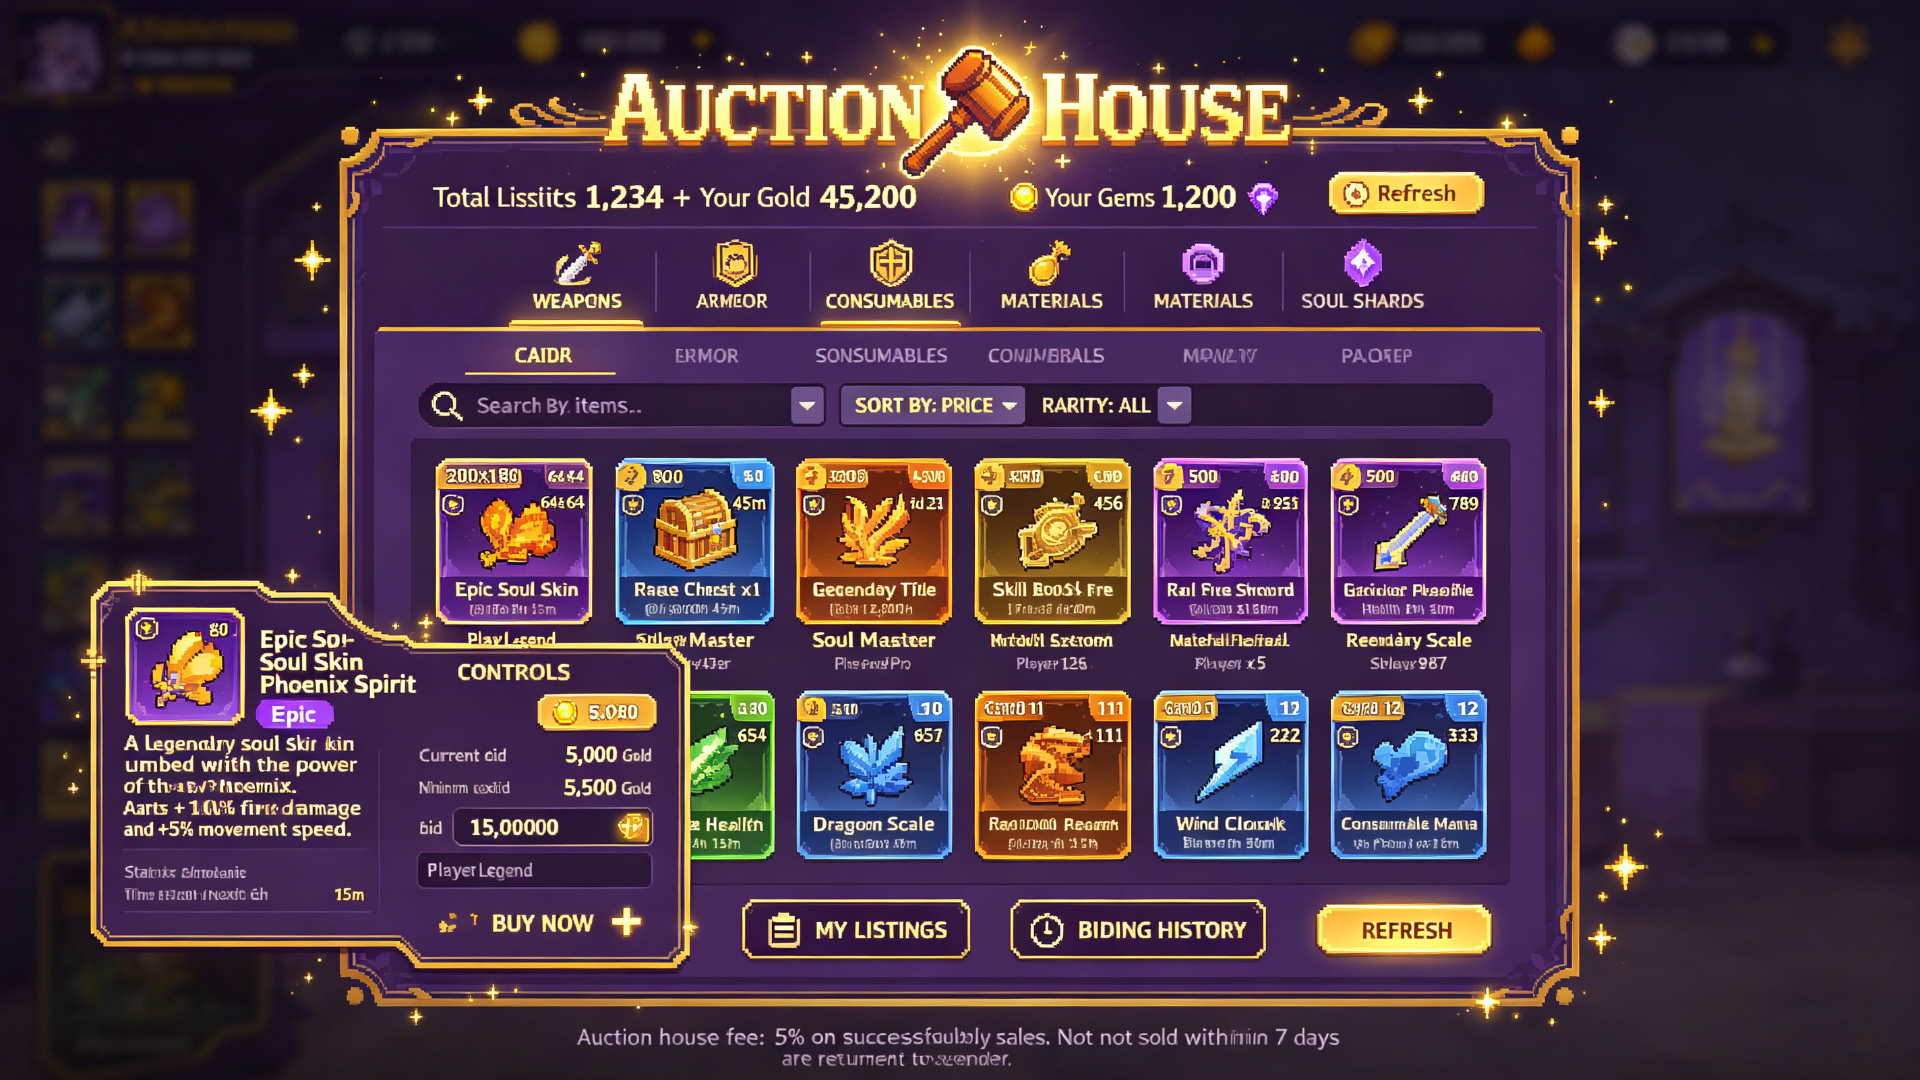
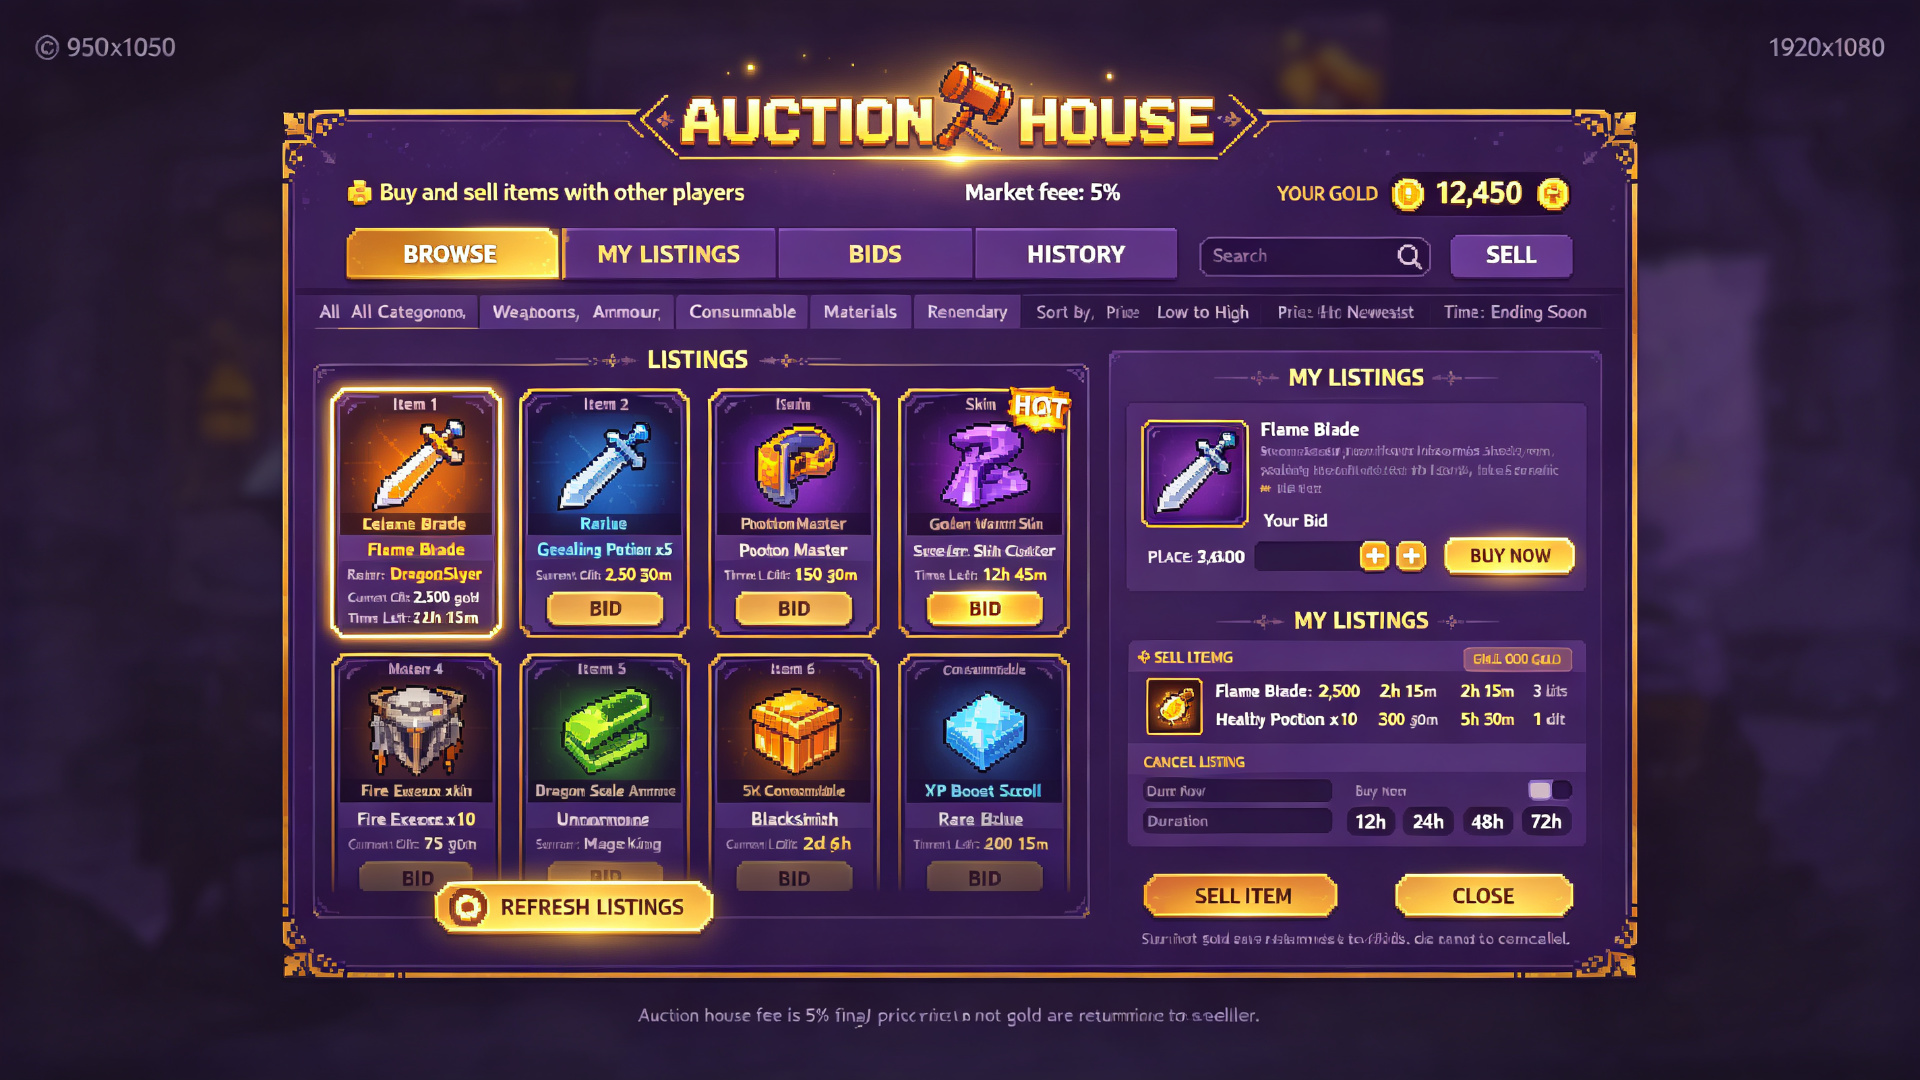
feat(art): 设计任务第148轮M2社交弹窗UI组件产出P0 - 6项M2社交弹窗UI组件全部完成（游戏内排行榜弹窗+游戏内邮件弹窗+游戏内好友弹窗+游戏内公会弹窗+游戏内拍卖行弹窗+游戏内交易弹窗），🎉新元素系统已达100元素正式停止新元素扩展！Steam商店页素材累计12项+过场动画CG 6项+M2战斗HUD UI组件6项+M2其他界面UI组件6项+M2主要界面细化UI 6项+M2战斗特效UI组件6项+M2社交UI组件6项+M2辅助界面UI组件6项+M2游戏系统UI组件6项+M2对战模式UI组件6项+M2运营系统UI组件6项+M2社交交互UI组件6项+M2设置系统UI组件6项+M2

diff --git a/docs/game-design/DESIGN_DEVLOG.md b/docs/game-design/DESIGN_DEVLOG.md
@@ -12915,3 +12915,88 @@
 9. 战策攻击系统完整修复链4个bug叠加全部完成+BUG-030已关闭+BUG-033已修复后，关注战策更多用户体验优化
 10. 🎉 GitHub网络正常，继续正常push
 11. 注意image_gen工具限制：一次只能生成1张图片，避免使用"rainbow/color"等可能触发审核的关键词
+
+---
+
+## 第148轮设计任务（2026-09-10）— M2社交弹窗UI组件产出P0 — 6项M2社交弹窗UI组件全部完成！M2 UI组件合计138项！概念图666张！音效837个！🎉新元素系统已达100元素正式停止新元素扩展！战策攻击系统完整修复链4个bug叠加全部完成！BUG-030已关闭！BUG-033已修复！⚠ GitHub 443端口连接超时，push失败，commit保留本地，网络恢复时推送！
+
+### 一、🎉 重要里程碑：新元素系统已达100元素，正式停止新元素扩展！
+
+| 项目 | 详情 |
+|------|------|
+| **当前进度** | **100个元素**（第122轮完成）✅ 达到目标！ |
+| **用户指令** | 2026-09-09用户指令：元素系统扩展到100个元素后立即停止，不再无限扩展！ |
+| **停止新元素产出** | ✅ 停止新元素的灵魂单位/地图/音效产出 |
+| **本轮起转向**（按优先级） | 1. **Steam商店页素材**（P1）← 第123-124轮已产出12项<br>2. **M2实际需要的UI资源**（P0）← **第126-148轮已产出138项M2 UI组件**<br>3. **过场动画/启动画面/CG**（P1）← 第125轮已产出6项<br>4. **现有资源优化**（P2） |
+
+### 二、战策DEVLOG最新进展（7907行，+9行）— 攻击系统完整修复链4个bug叠加全部完成！
+
+| 项目 | 状态 |
+|------|------|
+| **P0修复续：AI决策延迟导致单位在攻击范围内不攻击** | ✅ **已完成！** |
+| **攻击系统完整修复链（4个bug叠加）全部完成** | ✅ |
+| **修复后验证** | 5秒内战斗结束，双方持续攻击直到一方被击败！M2测试: 2884 Passed, 0 Failed |
+| **BUG-030已关闭** | ✅ 526个wav RIFF头和data chunk size全部修正，Godot导入0错误528步骤全通过 |
+| **BUG-033已修复** | ✅ 灵魂选择UI布局拥挤+main_menu假灵魂数据bug，已关闭31个，活跃2个 |
+| **战策待办** | UI皮肤图集替换纯色StyleBox（ui_skin_sheet.png）、自定义像素字体（无.ttf/.otf文件，需设计产出） |
+| **历史[设计需求]已基本满足** | ✅ 唯一未完成的是实际像素字体文件（.ttf/.otf），待战策决定 |
+| 无新[设计需求] | ✅ |
+
+### 三、🎉 M2社交弹窗UI组件产出（6项，P0）— M2 UI组件合计138项！
+
+| 序号 | 素材 | 尺寸 | 文件名 | 大小 | 内容 |
+|------|------|------|--------|------|------|
+| 1 | **游戏内排行榜弹窗UI** | 1920x1080 | leaderboard_popup_ui.png | 799KB | 排行榜界面（赛季信息+4个标签GLOBAL/FRIENDS/GUILD/WEEKLY+前3名领奖台+排名列表8项+你的排名高亮+赛季奖励+3个按钮VIEW FULL LEADERBOARD/CLAIM SEASON REWARD/CLOSE） |
+| 2 | **游戏内邮件弹窗UI** | 1920x1080 | mail_popup_ui.png | 648KB | 邮件界面（4个标签ALL/SYSTEM/SOCIAL/REWARDS+未读计数+邮件列表6条系统/奖励/社交+选中邮件详情+附件奖励+邮件操作+批量操作+3个按钮CLAIM ALL ATTACHMENTS/DELETE ALL READ/CLOSE） |
+| 3 | **游戏内好友弹窗UI** | 1920x1080 | friends_popup_ui.png | 495KB | 好友界面（好友统计128好友15在线+4个标签ALL/ONLINE/PENDING/BLOCKED+搜索+好友列表8项在线/游戏中/离开/离线+好友请求2项+好友操作+3个按钮ADD FRIEND/INVITE ONLINE/CLOSE） |
+| 4 | **游戏内公会弹窗UI** | 1920x1080 | guild_popup_ui.png | 791KB | 公会界面（公会横幅+公会信息4项成员/经验/创建/排名+4个标签MEMBERS/GUILD WARS/GUILD SHOP/SETTINGS+成员列表8项会长/官员/成员+公会描述+公会战争+公会商店+3个按钮INVITE MEMBER/GUILD CHAT/LEAVE GUILD/CLOSE） |
+| 5 | **游戏内拍卖行弹窗UI** | 1920x1080 | auction_house_popup_ui.png | 695KB | 拍卖行界面（玩家货币+5个标签BROWSE/MY LISTINGS/BIDS/HISTORY/SELL+搜索过滤+商品列表6个3x2网格+选中商品详情+我的上架2项+出售物品+3个按钮REFRESH LISTINGS/SELL ITEM/CLOSE） |
+| 6 | **游戏内交易弹窗UI** | 1920x1080 | trade_popup_ui.png | 677KB | 交易界面（交易状态+倒计时+玩家1你的物品栏6格+金币+VS分隔+玩家2对方物品栏6格+金币+交易摘要+价值比较+公平交易评级+交易警告+确认+3个按钮CONFIRM TRADE/ADD ITEM FROM INVENTORY/CANCEL TRADE） |
+
+全部严格遵循2D像素风+深紫金色调，禁止3D等距，符合ART_STYLE_GUIDE.md规范。
+
+### 四、⚠ Git提交与推送 — commit成功，push失败（GitHub 443端口连接超时），commit保留本地！
+
+| 仓库 | Commit | 文件数 | Push状态 |
+|------|--------|--------|----------|
+| **management**（第146轮） | 8a095b | 7文件 | ✅ 已push |
+| **management**（监控第140轮） | 43e7897 | — | ⚠ 未push（GitHub 443超时） |
+| **management**（第147轮） | 7aec00 | 1文件 | ⚠ 未push（GitHub 443超时） |
+| **management**（第148轮，本轮） | 待commit | 7文件 | 待commit |
+| **本地与远程** | — | — | ⚠ 本地领先远程2个commit（本轮后将3个） |
+| **工作树** | — | — | 干净 |
+
+⚠ **GitHub 443端口连接超时！** 本轮开始时push失败（Recv failure: Connection was reset），按照规则不重试超过2次，commit保留本地，网络恢复时推送。
+
+### 五、累计资源（第148轮后）
+
+| 类型 | 数量 | 说明 |
+|------|------|------|
+| 音效 | **837个** | management仓库assets/audio/ |
+| P0音效 | **17/17** | 全部完成 ✅ |
+| P1音效 | **24/24** | 全部完成 ✅ 🎉 |
+| **核心音效合计** | **41个** | 全部完成 ✅ 🎉 |
+| **P1背景音乐** | **7/7** | 全部完成 ✅ 🎉 |
+| P2音效 | 300个 | 6环境+6社交+288新元素技能 |
+| 概念图 | **666张** | management仓库art目录（本轮新增6项M2社交弹窗UI组件） |
+| M3内容扩展第一批~第四十八批 | **各14项** | 全部完成 ✅ |
+| M3内容扩展合计 | **672项** | 96新灵魂单位+96新地图+288技能音效+6社交UI图集+3社交高保真UI+1社交设计文档 |
+| **新元素系统** | **100元素** 🎉 | 已达到目标，正式停止新元素扩展！ |
+| **Steam商店页素材** | **12项** | 第123轮6项 + 第124轮6项 |
+| **过场动画/启动画面/CG** | **6项** | 第125轮6项 |
+| **M2 UI组件合计** | **138项** | 战斗HUD 6 + 其他界面 6 + 主要界面细化 6 + 战斗特效 6 + 社交 6 + 辅助界面 6 + 游戏系统 6 + 对战模式 6 + 运营系统 6 + 社交交互 6 + 设置/系统 6 + 奖励/弹窗 6 + 详情/弹窗 6 + 通用弹窗 6 + 社交交互弹窗 6 + 系统弹窗 6 + 运营/活动弹窗第一批 6 + 系统/设置弹窗 6 + 游戏设置弹窗 6 + 对战模式弹窗 6 + 运营/活动弹窗第二批 6 + 商城/详情弹窗 6 + 社交弹窗 6 |
+| 设计文档 | **10份** | |
+
+### 六、下一轮计划
+
+1. 🎉 新元素系统已达到100个元素，正式停止新元素扩展！
+2. 继续方向2：M2实际需要的UI资源（P0）：更多M2界面UI组件（游戏内聊天弹窗UI/游戏内公告弹窗UI/游戏内反馈弹窗UI/游戏内帮助弹窗UI/游戏内关于弹窗UI/游戏内版权法律信息弹窗UI）
+3. 方向4：现有资源优化（P2）：对已有UI资源进行细化、补全缺失帧、统一风格
+4. 继续方向1：Steam商店页素材（P1）：Steam商店页描述文案优化、更多游戏截图、成就图标补充
+5. 继续方向3：过场动画/启动画面/CG（P1）：更多过场动画概念图、战斗开始CG、平局CG
+6. 继续查看战策DEVLOG，了解[设计需求]和UI资源集成进展
+7. ⭐每轮生成wav后必须运行WAV size修复脚本
+8. 持续配合战策视觉提升P0/P1/P2，确保所有资源严格遵循ART_STYLE_GUIDE.md规范
+9. 战策攻击系统完整修复链4个bug叠加全部完成+BUG-030已关闭+BUG-033已修复后，关注战策更多用户体验优化
+10. ⚠ GitHub网络恢复时推送本地3个commit（监控第140轮43e7897 + 第147轮07aec00 + 第148轮）
+11. 注意image_gen工具限制：一次只能生成1张图片，避免使用"rainbow/color"等可能触发审核的关键词
